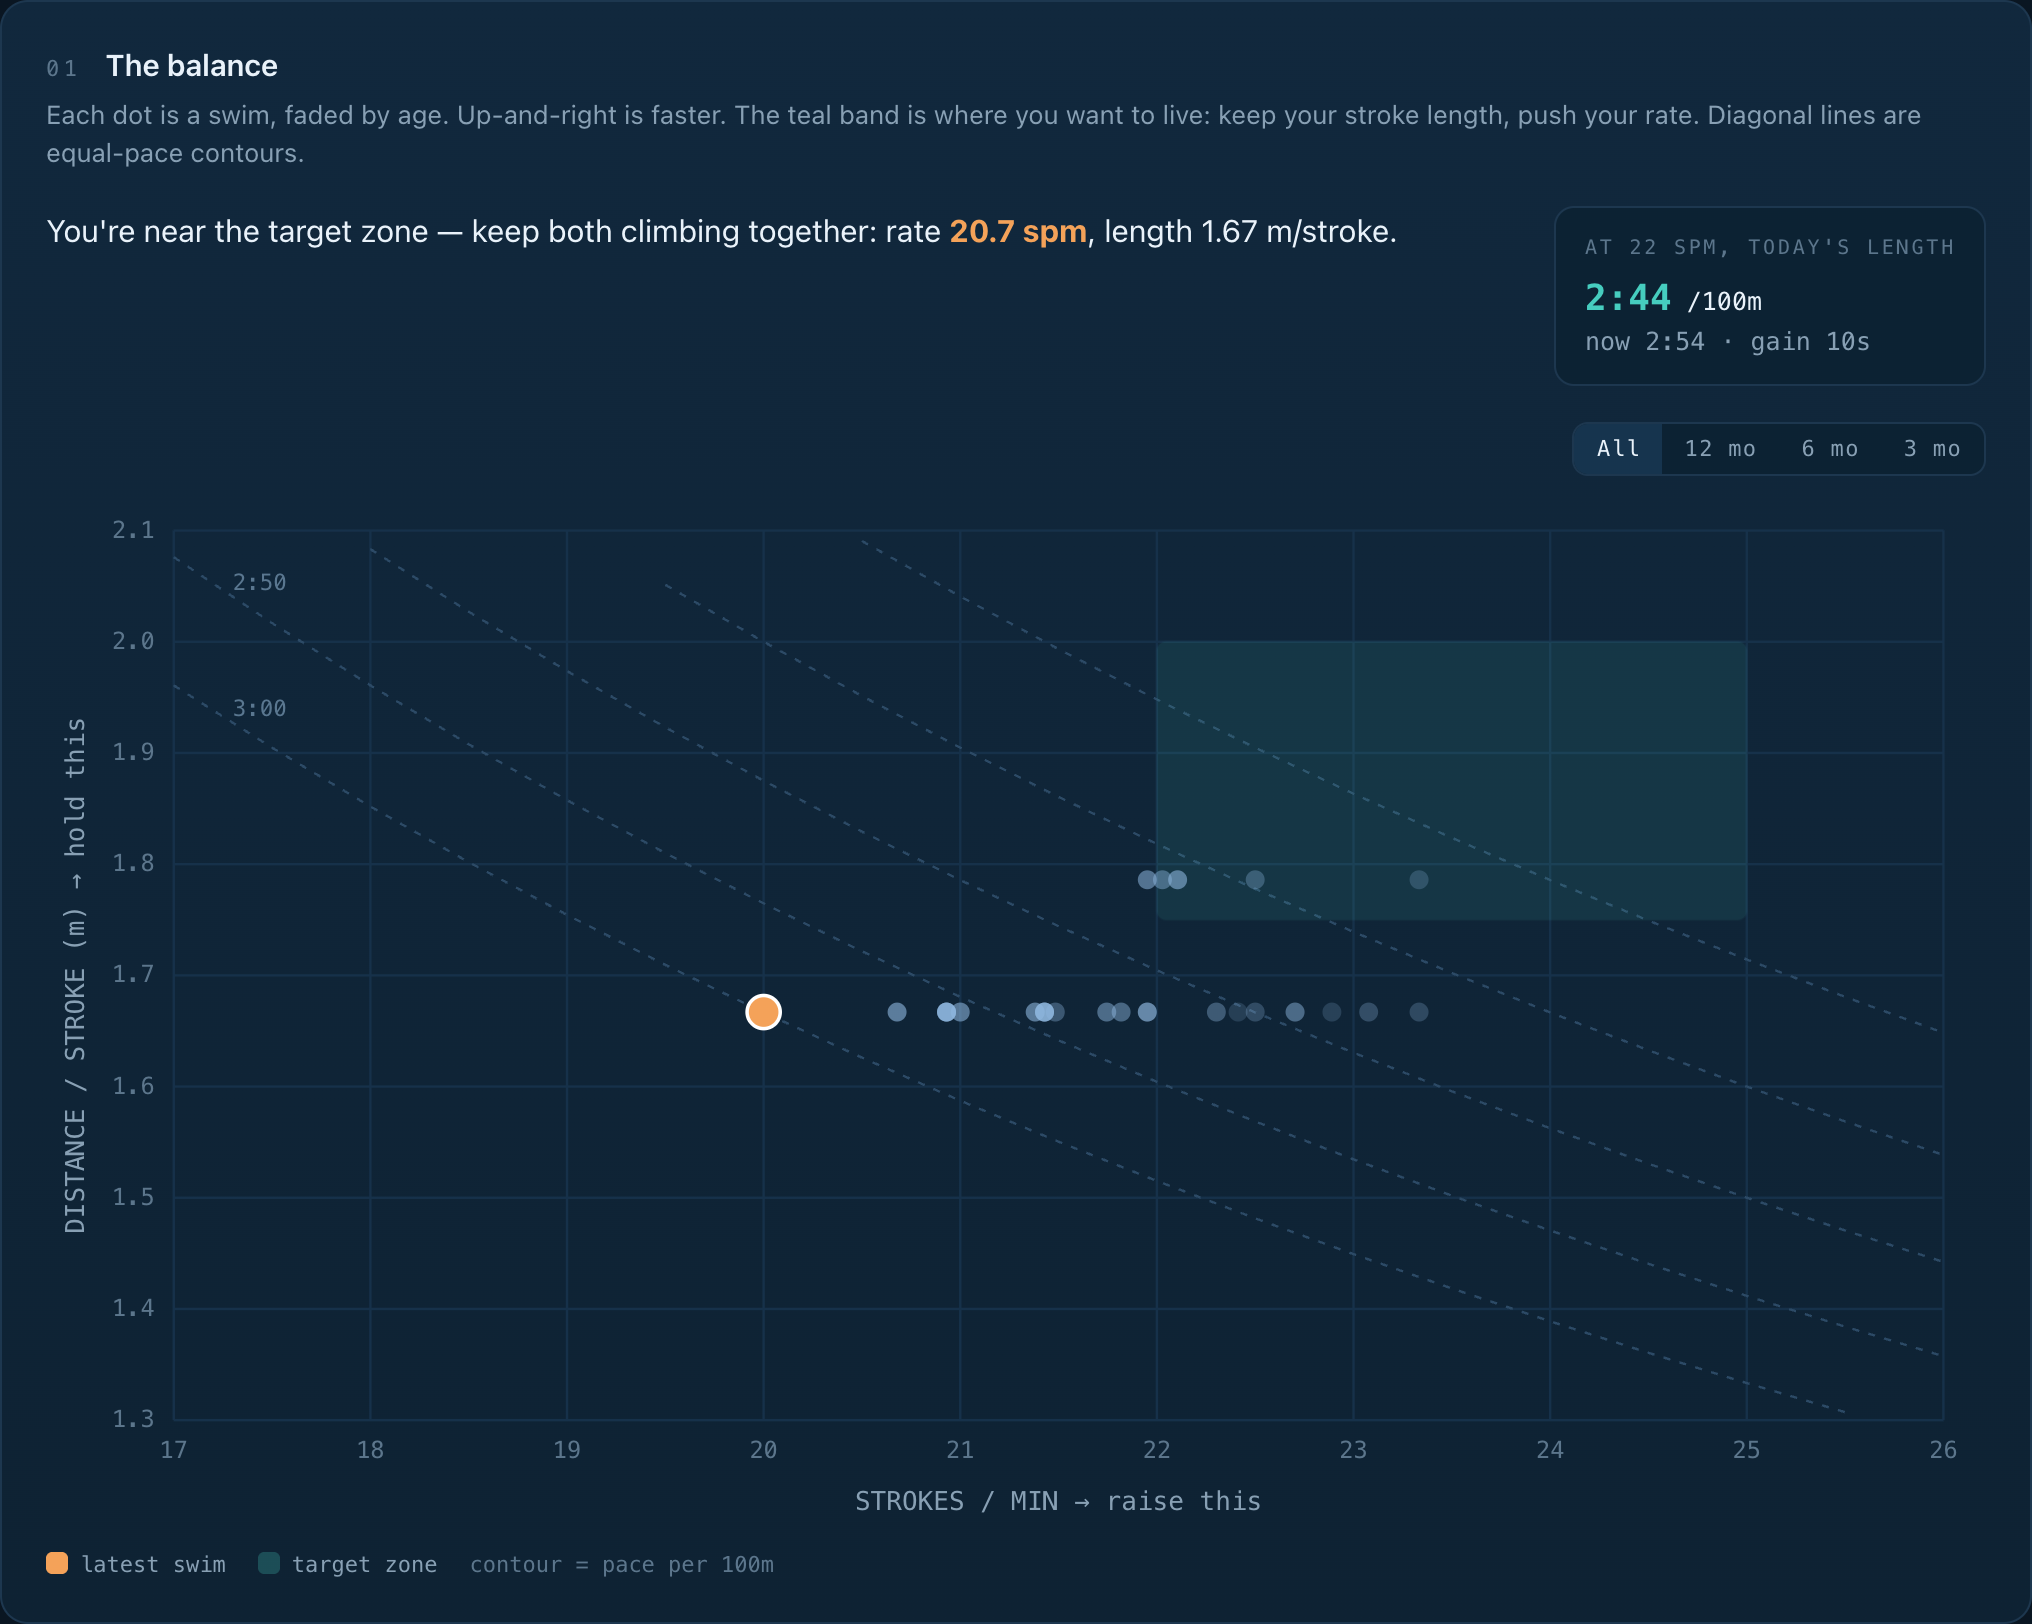
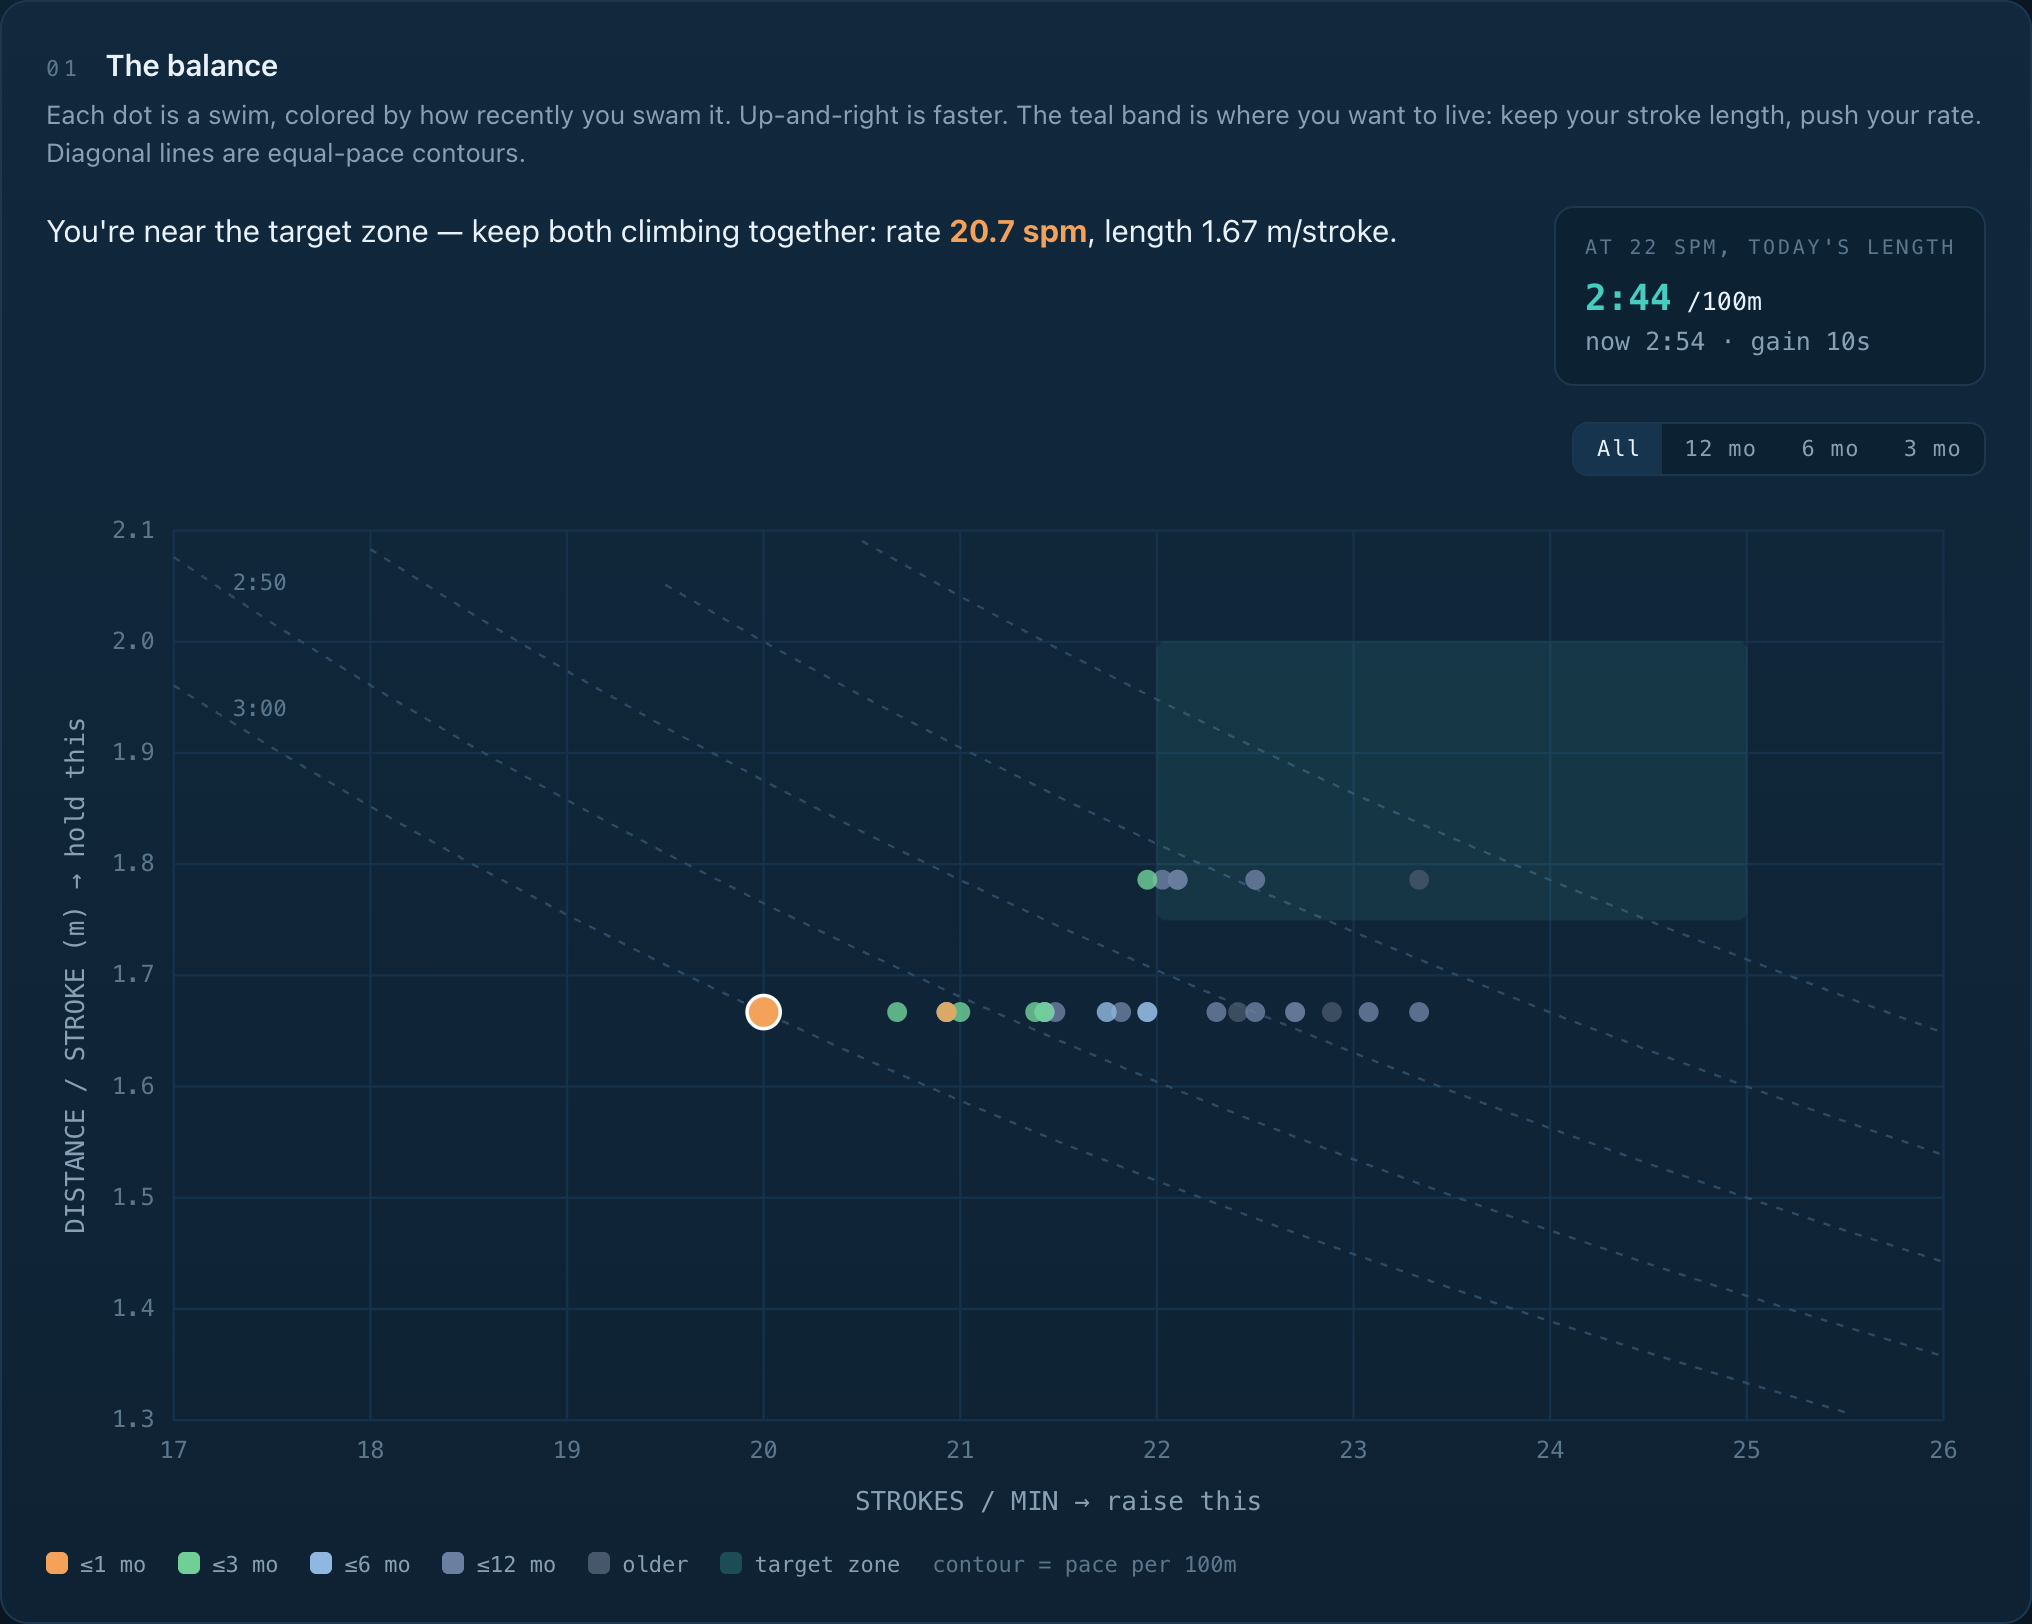
Color the balance scatter by recency
Replace the single blue opacity-fade with five recency buckets relative to today
(<=1mo amber, <=3mo green, <=6mo blue, <=12mo indigo-grey, older slate), all from
the existing palette; the latest swim keeps its larger white-ringed marker. Update
the caption and legend, and regenerate the README hero screenshot (synthetic dates
spread across ~14 months so all buckets show).

diff --git a/tracker/swim_tracker.html b/tracker/swim_tracker.html
@@ -226,7 +226,7 @@
     <!-- HERO: THE BALANCE -->
     <section class="card" id="heroCard">
       <div class="sechead"><span class="n">01</span><h3>The balance</h3></div>
-      <p class="sub">Each dot is a swim, faded by age. Up-and-right is faster. The teal band is where you want to live:
+      <p class="sub">Each dot is a swim, colored by how recently you swam it. Up-and-right is faster. The teal band is where you want to live:
         keep your stroke length, push your rate. Diagonal lines are equal-pace contours.</p>
       <div class="verdict">
         <div class="vtext" id="verdict"></div>
@@ -242,7 +242,11 @@
       </div>
       <div id="scatter"></div>
       <div class="legend">
-        <span><i style="background:var(--rate)"></i>latest swim</span>
+        <span><i style="background:#f4a259"></i>≤1 mo</span>
+        <span><i style="background:#6fcf97"></i>≤3 mo</span>
+        <span><i style="background:#8fb8e0"></i>≤6 mo</span>
+        <span><i style="background:#6b7fa0"></i>≤12 mo</span>
+        <span><i style="background:#46566b"></i>older</span>
         <span><i style="background:var(--len);opacity:.25"></i>target zone</span>
         <span style="color:var(--faint)">contour = pace per 100m</span>
       </div>
@@ -469,12 +473,16 @@ function renderScatter(swims){
   el("rect",{x:X(TARGET_SPM[0]),y:Y(TARGET_DPS[1]),
     width:X(TARGET_SPM[1])-X(TARGET_SPM[0]),height:Y(TARGET_DPS[0])-Y(TARGET_DPS[1]),
     fill:"#46cdbf",opacity:.10,stroke:"#46cdbf","stroke-opacity":.35,"stroke-width":1,rx:4},s);
-  // dots
+  // dots — colored by recency (months since today). Keep these hexes in sync with the
+  // hero legend swatches in the markup.
+  const now=Date.now();
+  const recColor=ageDays=> ageDays<=30?"#f4a259": ageDays<=90?"#6fcf97":
+    ageDays<=180?"#8fb8e0": ageDays<=365?"#6b7fa0":"#46566b";
   const n=swims.length;
   swims.forEach((z,i)=>{ if(!isFinite(z.spm)||!isFinite(z.dps))return;
     const latest=i===n-1;
-    const c=el("circle",{cx:X(z.spm),cy:Y(z.dps),r:latest?7:4,
-      fill:latest?"#f4a259":"#8fb8e0",opacity:latest?1:(0.18+0.5*i/n),
+    const c=el("circle",{cx:X(z.spm),cy:Y(z.dps),r:latest?7:4.2,
+      fill:recColor((now-z.date.getTime())/864e5),opacity:latest?1:0.82,
       stroke:latest?"#fff":"none","stroke-width":latest?1.5:0,class:"pt"},s);
     c.addEventListener("mousemove",e=>showTip(
       `<b>${fmtDate(z.date)}</b><br>${Math.round(z.dist)} m · ${fmtPace(z.pace100)}/100m<br>`+

diff --git a/README.md b/README.md
@@ -9,7 +9,7 @@ The toolkit exists to answer one coaching question:
 
 > **Is my speed improving — and through which lever, stroke efficiency or effort?**
 
-![The tracker's hero "balance" chart: every swim plotted as stroke rate (x) vs distance per stroke (y), with a target zone and equal-pace contours](docs/images/hero-balance.png)
+![The tracker's hero "balance" chart: every swim plotted as stroke rate (x) vs distance per stroke (y), colored by recency, with a target zone and equal-pace contours](docs/images/hero-balance.png)
 
 <sub>All screenshots use synthetic sample data (`tools/make_sample_data.py`) — no real health data.</sub>
 